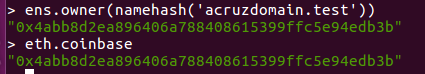
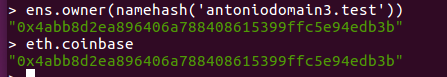
PEC2 ejercicio1 ejercicio2 ejercicio3

diff --git a/PEC2/ejercicio1/pec2_ejercicio1.md b/PEC2/ejercicio1/pec2_ejercicio1.md
@@ -5,8 +5,8 @@
 ### Descripción del proceso seguido
 ####  1. Tenemos un nodo completamente sincronizado con la red Rinkeby y habilitada la consola
 
->  geth --syncmode "fast" --rinkeby
->>  geth --datadir=$HOME/.ethereum/rinkeby attach ipc:$HOME/.ethereum/rinkeby/geth.ipc console
+> -   geth --syncmode "fast" --rinkeby
+> -   geth --datadir=$HOME/.ethereum/rinkeby attach ipc:$HOME/.ethereum/rinkeby/geth.ipc console
 
 ####  2. Importamos ensutils-testnet.js al nodo
 
@@ -31,14 +31,14 @@
 
    - Comprobamos que nadie posee el nombre que queremos registrar
    ~~~
-   new Date(testRegistrar.expiryTimes(web3.sha3('acruzdomain')).toNumber() * 1000)
+   new Date(testRegistrar.expiryTimes(web3.sha3('antoniodomain3')).toNumber() * 1000)
    ~~~
    La fecha que obtenemos es anterior a la fecha actual por lo que el nombre no está registrado y podemos continuar.
 
    ![img2](./images/checkNameExistance.png)
 
 
-   - Realizamos la transacción para registrar 'acruzdomain'. 
+   - Realizamos la transacción para registrar 'antoniodomain3'. 
 
    Para ello previamente desbloqueamos nuestra cuenta para poder realizar la transacción:
    ~~~
@@ -48,40 +48,47 @@
 
    Indicamos el nombre del dominio y la cuenta owner del dominio.
    ~~~
-   testRegistrar.register(web3.sha3('acruzdomain'), eth.coinbase, {from: eth.coinbase})
+   testRegistrar.register(web3.sha3('antoniodomain3'), eth.coinbase, {from: eth.coinbase})
    ~~~
    ![img4](./images/contractRegistrar.png)
 	
 
 ####  4. Establecemos Resolver contract
 
-   - Indicamos a Registry contract que use el public resolver (dirección del contrato resolver) para nuestro nombre de dominio.
+   - Indicamos el public resolver('0x5d20cf83cb385e06d2f2a892f9322cd4933eacdc') que va a resolver nuestro nombre de dominio.
    ~~~
-   ens.setResolver(namehash('acruzdomain.test'), 0x5d20cf83cb385e06d2f2a892f9322cd4933eacdc, {from: eth.coinbase})
-   ~~~
-
-   ![img5](./images/contractRegistry.png)
-
-   - Indicamos a Resolver contract que resuelva el nombre de nuestra cuenta.
-   ~~~
-	publicResolver.setAddr(namehash('acruzdomain.test'), eth.coinbase, {from: eth.coinbase})
+   ens.setResolver(namehash('antoniodomain3.test'), publicResolver.address, {from: eth.coinbase})
    ~~~
 
-   ![img6](./images/contractResolver.png)
+   ![img5](./images/setResolver.png)
+
+   - Indicamos a public resolver que nuestro nombre de dominio corresponde a nuestra cuenta coinbase
+   ~~~
+    publicResolver.setAddr(namehash("antoniodomain3.test"), eth.coinbase, {from: eth.coinbase})  
+   ~~~
+
+   ![img6](./images/setAddressToResolve.png)
        
 
 ####  5. Demostramos que somos poseedores del dominio adquirido y obtenemos la dirección del Resolver utilizado
 
    - Obtenemos el owner del dominio
    ~~~
-   ens.owner(namehash('acruzdomain.test'))
+   ens.owner(namehash('antoniodomain3.test'))
    ~~~
   
    ![img7](./images/domainOwner.png)
 
-   - Obtenemos la dirección del Resolver utilizado
+   - Obtenemos la dirección del Resolver utilizado. Como vemos corresponde con la dirección del public Resolver
    ~~~
-   ens.resolver(namehash('acruzdomain.test'))
+   ens.resolver(namehash('antoniodomain3.test'))
    ~~~
   
    ![img8](./images/resolverAddress.png)
+
+   - Mostramos la cuenta asociada al dominio (Como vemos coincide con nuestra cuenta coinbase)
+   ~~~
+   getAddr('antoniodomain3.test')
+   ~~~
+  
+   ![img9](./images/getAddress.png)

diff --git a/PEC2/ejercicio2/pec2_ejercicio2.md b/PEC2/ejercicio2/pec2_ejercicio2.md
@@ -15,25 +15,21 @@
 
 ###  Configurar el entorno
 
-####  1. Iniciamos Ganache Blockchain
+####  1. Tenemos un nodo completamente sincronizado con la red Rinkeby, habilitada la consola
 
-> ganache-cli
-
-   ![img2](./images/ganache.png)
+> -   geth --syncmode "fast" --rinkeby
+> -   geth --datadir=$HOME/.ethereum/rinkeby attach ipc:$HOME/.ethereum/rinkeby/geth.ipc console
+> -   admin.startRPC("127.0.0.1", 8545)
+> -   personal.unlockAccount(eth.coinbase, null, 15000)
 
 ####  2. Compilamos y migramos los smart contracts
 
-> truffle compile
-> truffle migrate
+> - truffle compile
+> - truffle migrate --reset
 
-   ![img3](./images/migrate.png)
+   ![img2](./images/migrate.png)
 
-####  3. Conectamos MetaMask a ganache-cli
-
-  ~~~
-   Conectamos MetaMask a ganache-cli en el puerto 8545
-  ~~~
-	
+####  3. Conectamos MetaMask a rinkeby
 
 ###  Arrancar un Daemon de IPFS y alojar la DApp
     
@@ -41,19 +37,19 @@
 
 > ipfs daemon
   
-   ![img4](./images/ipfsDaemon.png)
+   ![img3](./images/ipfsDaemon.png)
 
 ####  2. Desde otro terminal comprobamos los nodos a los que estamos  conectados
 
 > ipfs swarm peers 
 
-   ![img5](./images/peers.png)
+   ![img4](./images/peers.png)
 
 ####  3. Consultamos el id de nuestro nodo
 
 > ipfs id
 
-   ![img6](./images/nodeid.png)
+   ![img5](./images/nodeid.png)
 
 ####  4. Copiamos los ficheros del frontend a una única carpeta de distribucion (/dist)
 > mkdir dist
@@ -64,46 +60,41 @@
 ~~~
 Necesitamos también los ficheros .json de los contratos (Tenemos las ABI y también información sobre la red donde se han desplegado los contratos)
 ~~~
-   ![img7](./images/distContent.png)
+   ![img6](./images/distContent.png)
 
 ####  5. Añadimos la carpeta dist a IPFS
 
 > ipfs add -r dist/
 
 ~~~
-El último hash es el que nos interesa para publicar en IPFS:
-QmUxfK9MgusMPHPMLvfxjrJzpV1ZLxuWgHD82pspjTMucp
+El último hash es el que nos interesa para añadir a IPFS:
+QmUvWQ7d2MjB5anZrmtQoPyCpNtV8t7F3zcWmAt8raiiC7
 ~~~
-  
-   ![img8](./images/hashdist.png)
 
+   ![img7](./images/hashdist.png)
 
-####  6. Publicamos el contenido en IPFS
+####  6. Desde un browser accedemos a la DApp en localhost
 
-> ipfs name publish QmUxfK9MgusMPHPMLvfxjrJzpV1ZLxuWgHD82pspjTMucp 
- 
-   ![img9](./images/hashpublished.png)
+> http://localhost:8080/ipfs/QmUvWQ7d2MjB5anZrmtQoPyCpNtV8t7F3zcWmAt8raiiC7/ 
 
-####  7. Desde un browser accedemos a la DApp en localhost
+   ![img8](./images/browser1.png)
 
-> localhost:8080/ipns/QmbYS5pyLcRsDouzJtiD89Dfn4vwGdBBrznC6D35sfdwJm/ 
+####  7. Damos de alta un nuevo vehículo
 
-   ![img10](./images/browser1.png)
+   ![img9](./images/alta1.png)
+   ![img10](./images/altatransaction.png)
+   ![img11](./images/altafin.png)
 
-####  8. Damos de alta un nuevo vehículo
+####  8. Publicamos el contenido
 
-   ![img11](./images/alta1.png)
-   ![img12](./images/alta1fin.png)
+> ipfs name publish QmUvWQ7d2MjB5anZrmtQoPyCpNtV8t7F3zcWmAt8raiiC7
 
+   ![img12](./images/hashpublished.png)
 
-####  9. Consultamos el alta
-
-   ![img13](./images/busqueda.png)
-
-####  10. Desde un browser accedemos a la DApp a través del gateway
+####  9. Desde un browser accedemos a la DApp a través del gateway
 
 > https://gateway.ipfs.io/ipns/QmbYS5pyLcRsDouzJtiD89Dfn4vwGdBBrznC6D35sfdwJm/
 
-   ![img14](./images/browser2.png)
+   ![img13](./images/browser2.png)
 
 

diff --git a/PEC2/ejercicio3/PEC2ejercicio3.md b/PEC2/ejercicio3/PEC2ejercicio3.md
@@ -1,0 +1,89 @@
+# PEC2:
+
+## Ejercicio 3: Alojar una DApp en Swarm
+
+### A partir de un truffle project modificar el frontend para mostrar su nombre al ejecutar la aplicación
+
+####  1. Clonar el proyecto de una DApp
+
+>  Download DApp from: https://github.com/christinto/ChrisPerry_FinalProject_Consensys/archive/master.zip
+
+####  2. Modifico index.html
+
+  ![img1](./images/name.png)
+
+
+###  Configurar el entorno
+
+####  1. Tenemos un nodo completamente sincronizado con la red Rinkeby, habilitada la consola
+
+> -   geth --syncmode "fast" --rinkeby
+> -   geth --datadir=$HOME/.ethereum/rinkeby attach ipc:$HOME/.ethereum/rinkeby/geth.ipc console
+> -   admin.startRPC("127.0.0.1", 8545)
+> -   personal.unlockAccount(eth.coinbase, null, 15000)
+
+####  2. Compilamos y migramos los smart contracts
+
+> - truffle compile
+> - truffle migrate --reset
+
+   ![img2](./images/migrate.png)
+
+####  3. Conectamos MetaMask a rinkeby
+
+###  Arrancar Swarm y alojar la DApp
+    
+####  1. Arrancamos Swarm
+
+> swarm --ens-api 'test:0xe7410170f87102df0055eb195163a03b7f2bff4a@/home/antonio/.ethereum/rinkeby/geth.ipc' --bzzaccount 0x4abb8d2ea896406a788408615399ffc5e94edb3b --datadir=$HOME/.ethereum/rinkeby
+  
+   ![img3](./images/runSwarm.png)
+
+####  2. Copiamos los ficheros del frontend a una única carpeta de distribucion (/dist)
+> - mkdir dist
+> - rsync -r src/ dist/
+> - rsync -r build/contracts/ dist/ 
+> - ls -l dist/
+
+~~~
+Necesitamos también los ficheros .json de los contratos (Tenemos las ABI y también información sobre la red donde se han desplegado los contratos)
+~~~
+   ![img4](./images/distContent.png)
+
+####  5. Subimos la carpeta dist a Swarm
+
+> swarm --defaultpath /home/antonio/src/MASTERETH/PEC2/ejercicio2/cardapp/dist/index.html --recursive up /home/antonio/src/MASTERETH/PEC2/ejercicio2/cardapp/dist
+
+~~~
+El hash obtenido es:
[1 lines of base64/hex data omitted]
+~~~
+
+   ![img5](./images/hashswarmdist.png)
+
+####  6. Vinculamos un ENS adquirido con la DApp 
+
+> - new Date(testRegistrar.expiryTimes(web3.sha3('antonioswarmdomain')).toNumber() * 1000)
+> - testRegistrar.register(web3.sha3('antonioswarmdomain'), eth.coinbase, {from: eth.coinbase})
+> - publicResolver.address
+> - ens.owner(namehash('antonioswarmdomain.test'))
+> - ens.setResolver(namehash('antonioswarmdomain.test'), publicResolver.address, {from: eth.coinbase})
+> - ens.resolver(namehash('antonioswarmdomain.test'))
+
+  ![img6](./images/consolecommand1.png)
+
[1 lines of base64/hex data omitted]
+> - getContent('antonioswarmdomain.test')
+
+   ![img7](./images/consolecommand2.png)
+
+####  7. Mostramos la aplicación con la siguiente URL:
+
+> http://localhost:8500/bzz:/antonioswarmdomain.test/index.html
+
+   ![img8](./images/browser1.png)
+
+####  8. Damos de alta un nuevo vehículo
+
+   ![img9](./images/alta1.png)
+   ![img10](./images/altafin.png)
